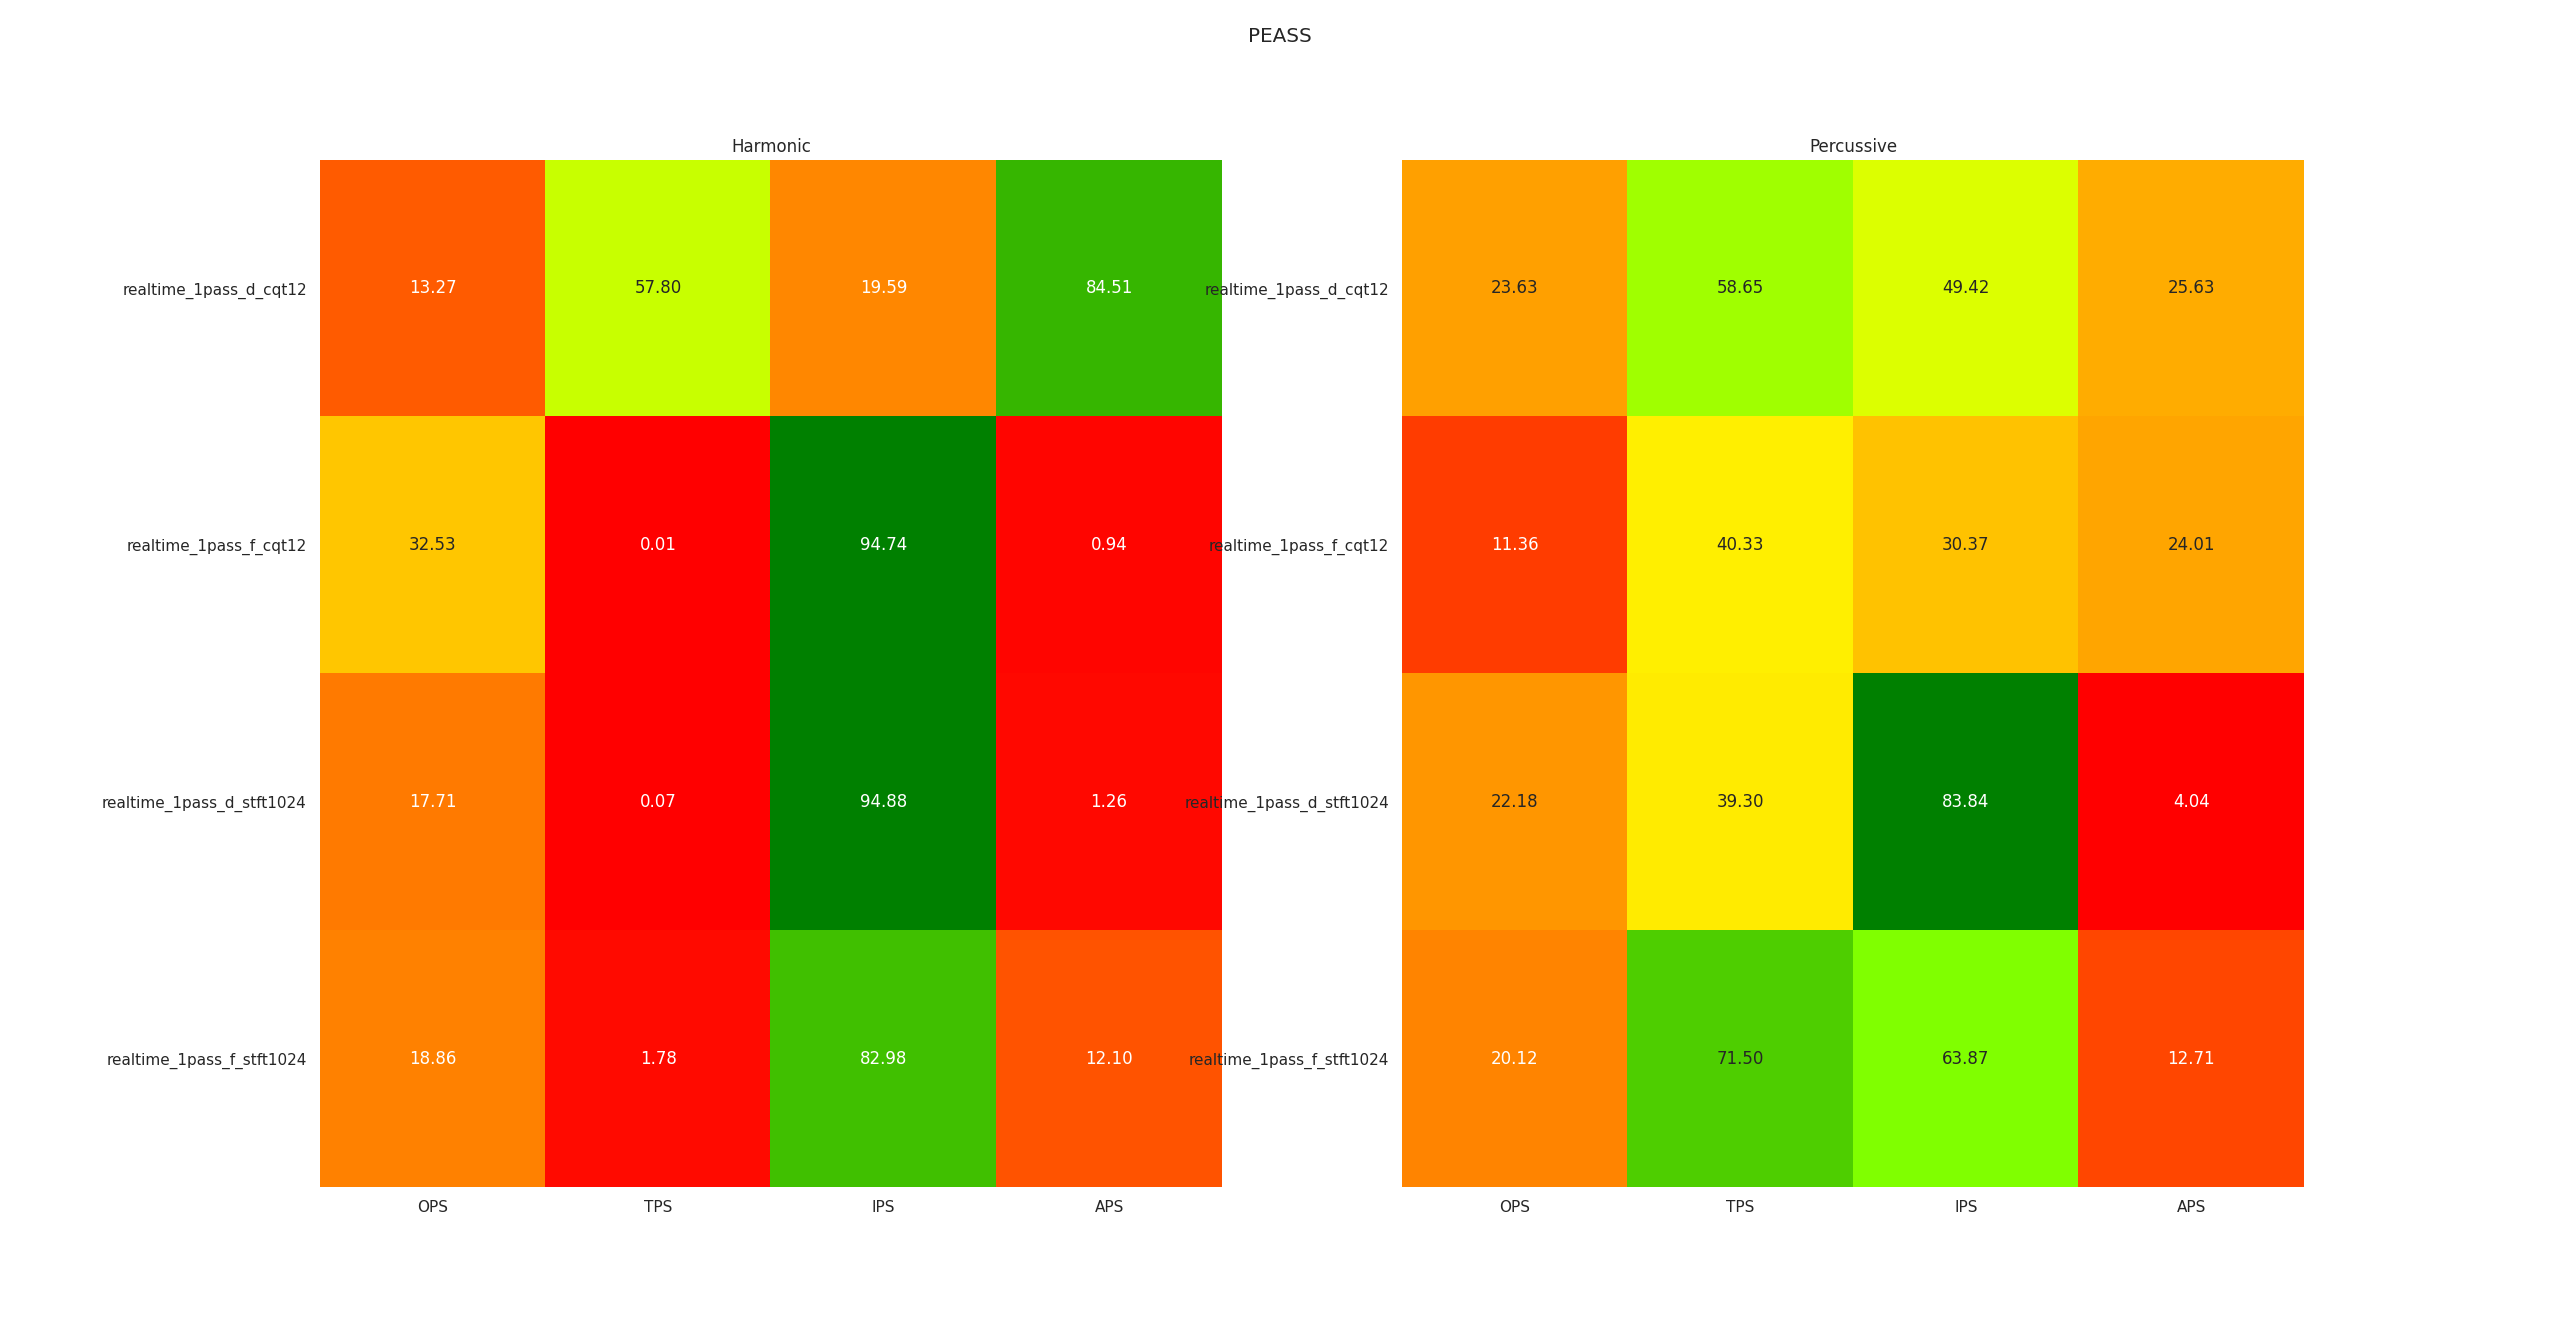
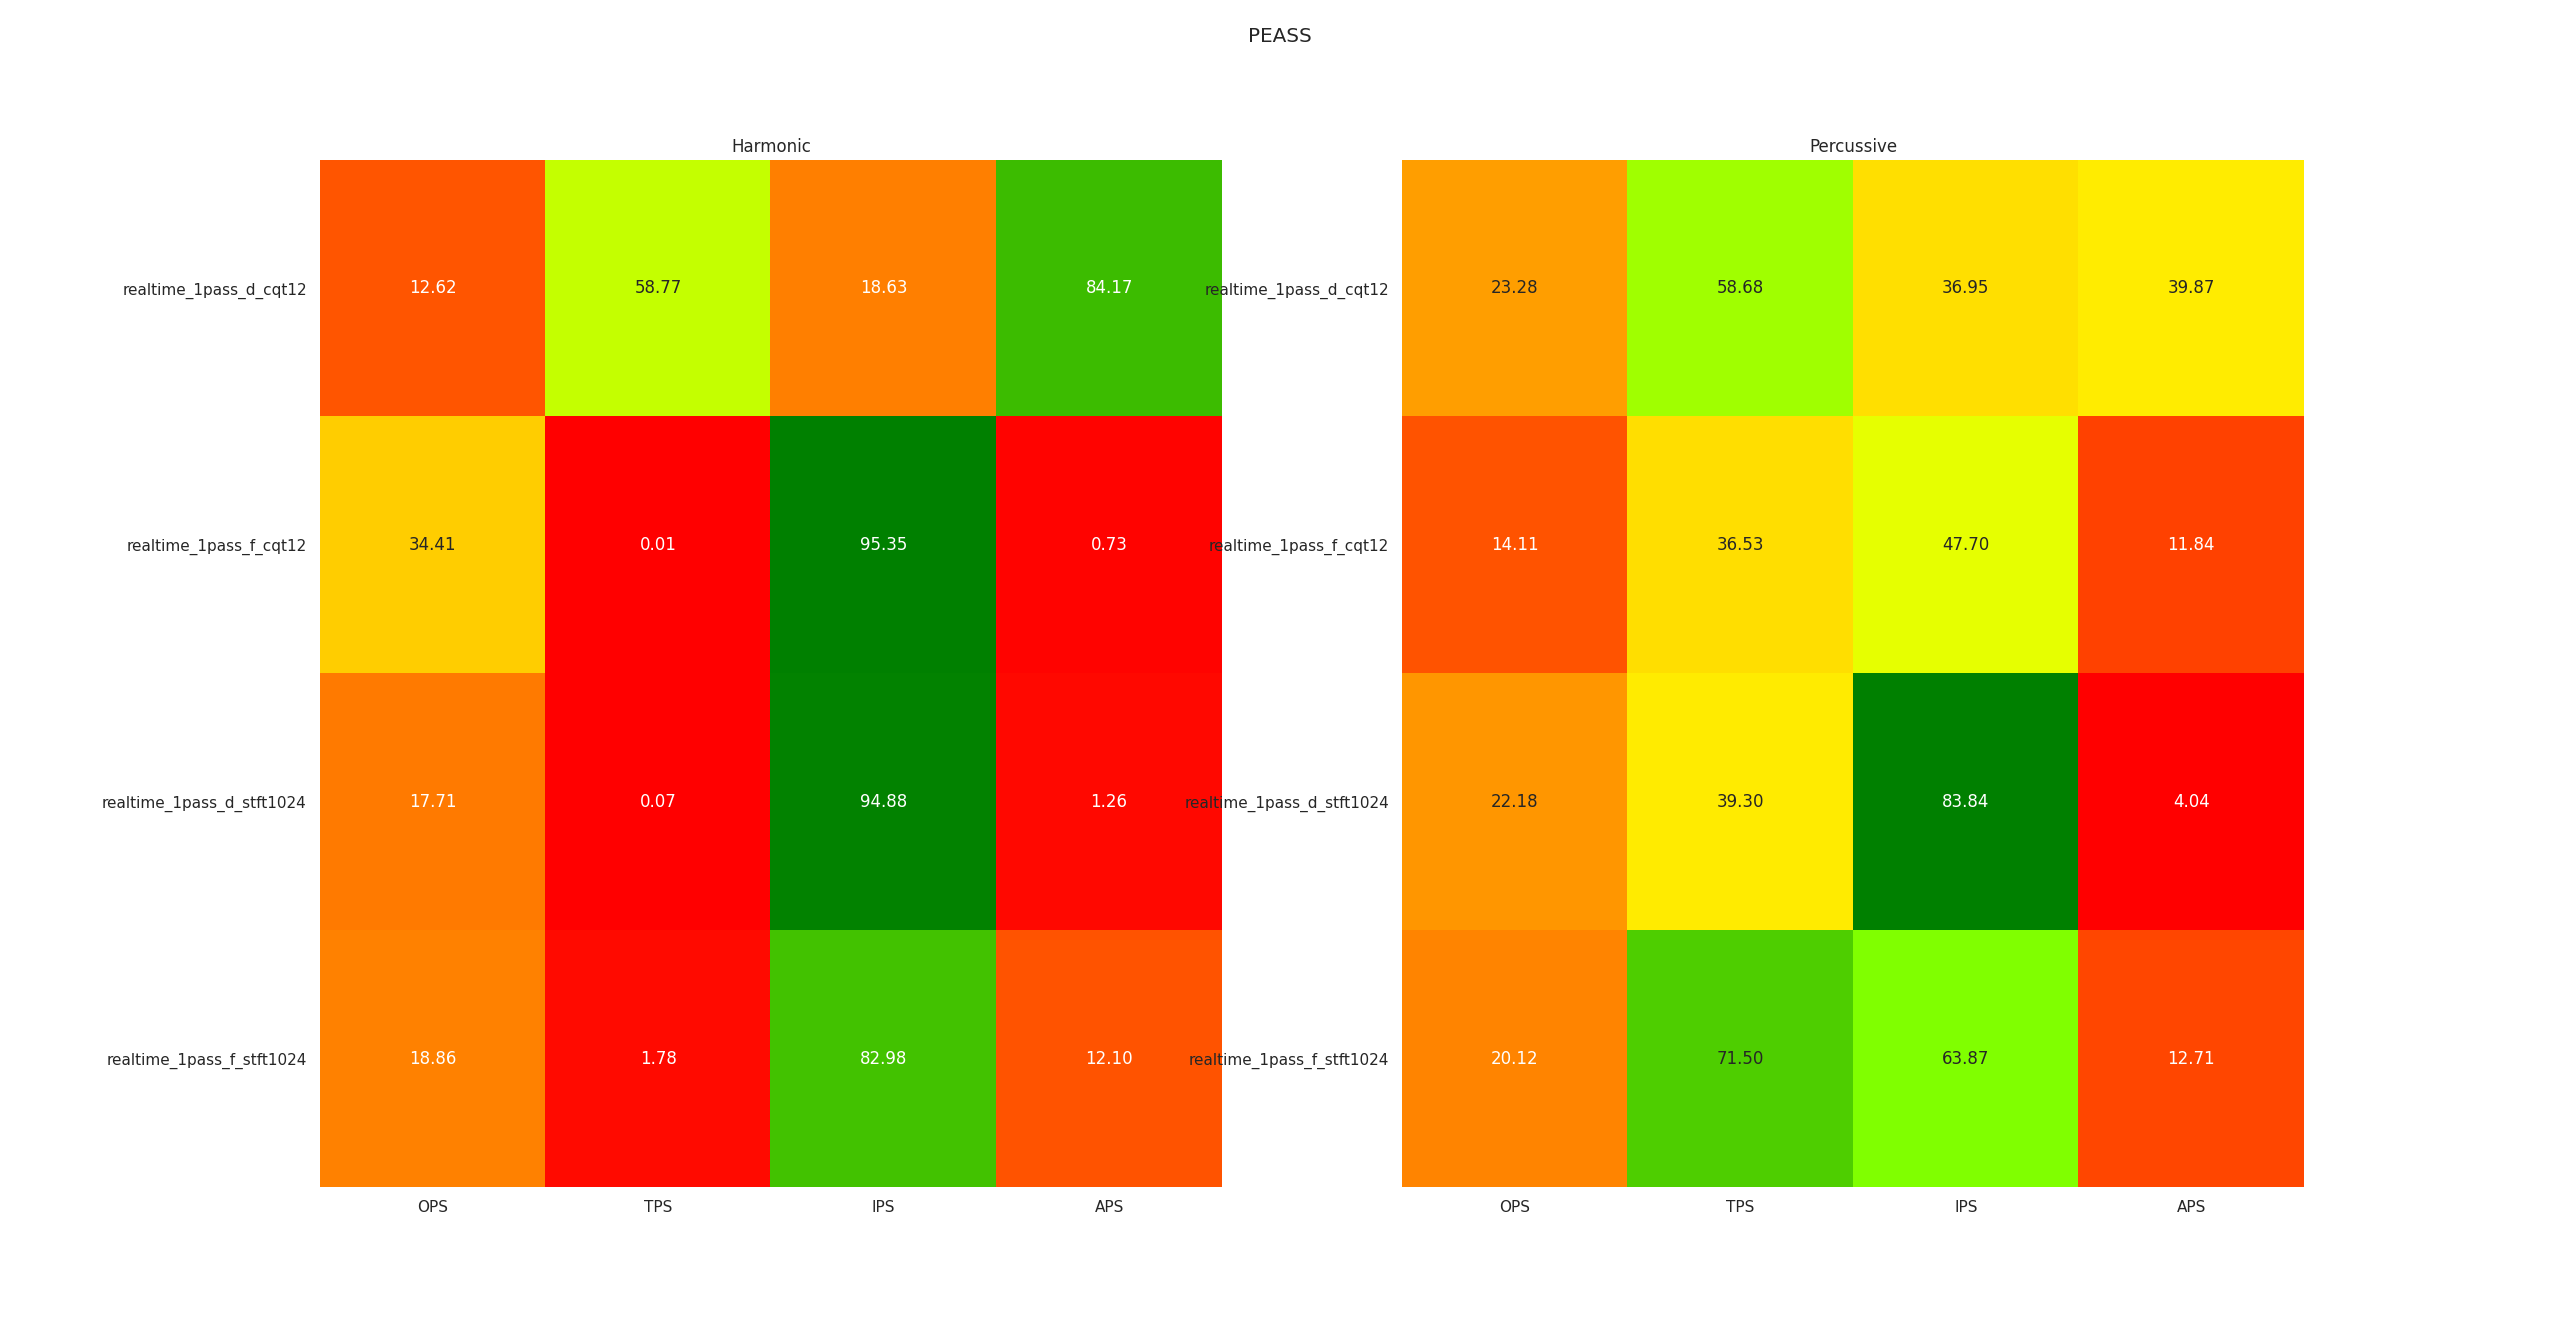
Redo evaluations for 1024-sized sliCQ streaming realtime

Changed region(s): [[0.7188, 0.1229, 0.9062, 0.5225]]

diff --git a/algorithms/HPSS_CQNSGT_realtime.py b/algorithms/HPSS_CQNSGT_realtime.py
@@ -30,7 +30,7 @@ def main():
     parser.add_argument(
         "--stream-size",
         type=int,
-        default=2048,
+        default=1024,
         help="stream size for simulated realtime from wav (default=%(default)s)",
     )
     parser.add_argument("input", type=str, help="input file")
@@ -68,9 +68,7 @@ def main():
         trlen,
         fs,
         real=True,
-        recwnd=True,
         matrixform=True,
-        multithreading=True,
     )
     total_time = 0.0
 

diff --git a/README.md b/README.md
@@ -43,7 +43,7 @@ The low quality of the harmonic separation is expected, since the causal median 
 
 Realtime HPSS with sliding STFT is implemented in MATLAB, with a stream size of 1024 (implying a hop of 1024 and frame size of 2048), which takes 0.621ms per iteration in MATLAB (the same idea leads to a [very fast CUDA implementation](https://github.com/sevagh/Zen)).
 
-Realtime HPSS with the sliCQ is implemented in Python, since the [Python NSGT](https://github.com/grrrr/nsgt) has a better version of sliCQ compared to the [MATLAB NSGToolbox](http://nsg.sourceforge.net/). It also uses a stream size of 1024 (implying a transition area of 1024 and a slice length of 4096), but the computational cost of the sliCQ implementation is high, leading to 166ms per iteration.
+Realtime HPSS with the sliCQ is implemented in Python, since the [Python NSGT package](https://github.com/grrrr/nsgt) has a version of sliCQ that's more usable in a realtime context, compared to the [MATLAB NSGToolbox](http://nsg.sourceforge.net/). It also uses a stream size of 1024 (implying a transition area of 1024 and a slice length of 4096), but the computational cost of the sliCQ implementation is high, leading to ~50ms per iteration. Since the sliCQ returns 3 sets of coefficients, the median filter is applied against the (3, X, Y)-dimension coefficients, 3x more than the STFT case. Next, a stream size of 1024 (slice length 4096) is so small that the desired 12 bins per octave at constant Q has frequencies that cannot be realized - meaning larger would be _even better_. More work is needed to find the best way of using the sliCQ in a realtime HPSS algorithm.
 
 Performance numbers in this repository are not a final judgement, since better implementations can be written once a concept is validated.
 
